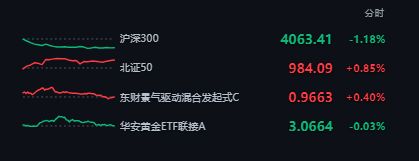
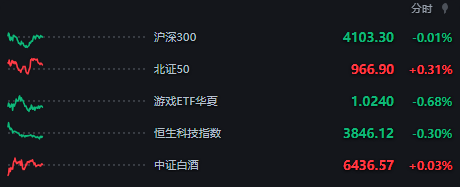
docs: README 与预览图对齐 v1.0.5
- 下载区收成一个安装包，说明便携版从 v1.0.5 起不再提供
- 补「列表滚动」用法与 12 行上限
- 预览图重做：设置面板侧边栏、聚焦图表十字光标、自动配色对比、主浮窗
- config.example.json 补 shortcuts / sparkWidth / focusChartWidth

diff --git a/README.md b/README.md
@@ -2,32 +2,55 @@
 
 背景全透明的桌面行情浮窗。没有边框、没有面板、没有按钮堆叠，只有红绿折线和几个数字，贴在桌面任意角落，不挡视线。
 
-**[⬇ 下载最新版 MiniTicker.exe](https://github.com/qqten/mini-ticker/releases/latest)** — 单文件，不用装 Node，双击就能用。
+**[⬇ 下载最新版](https://github.com/qqten/mini-ticker/releases/latest)** —— 一个安装包，装完就能自动更新，不用再手动下新版。
 
-![深色壁纸上的效果](preview/dark-wallpaper.png)
+![浮窗叠在深色背景上的效果](preview/dark-wallpaper.png)
 
 ## 特性
 
 - **真透明**：无边框浮窗，背景完全透过去，叠在浏览器、编辑器、壁纸上都行
-- **自动配色**：实时采样窗口背后的画面，背景亮就自动转暗色字，背景暗就转亮色字，不用手动切
+- **自动配色**：实时采样窗口背后的画面，背景亮就自动转暗色字，背景暗就自动转亮色字，不用手动切
 - **多市场**：A 股、港股、美股、指数、ETF、场外基金混着盯
+- **场外基金也有分时线**：基金没有分钟行情，就每轮抓一次盘中估值自己攒成曲线，跟股票一样一条线看下来
 - **四种周期**：分时 / 日线 / 月线 / 年线，`Ctrl+1~4` 秒切，右上角常驻当前周期标识
-- **聚焦图表**：`Ctrl+Alt+F` 把浮窗向右加宽，左边照旧是列表、右边长出一块图表区（分时 / 5日 / 日K，K 线 + 均线 + 成交量 + MACD），`↑↓` 或鼠标点行切换自选，中间分界线可拖动
-- **可伸缩**：鼠标移到浮窗任意一边拖动改宽/改高，松手记住；右键菜单只有设置和退出，其余都在设置面板里
+- **聚焦图表**：`Ctrl+Alt+F` 把浮窗向右加宽，左边照旧是列表、右边长出一块图表区（分时 / 5日 / 日K，K 线 + 均线 + 成交量 + MACD + 十字光标读数）
+- **可伸缩**：鼠标移到浮窗任意一边拖动改宽/改高，松手记住；窄到 220px 也还能用，会自己收字号、把折线压成迷你条
 - **按名字搜**：中文名、拼音首字母、代码都能搜，不用背代码
 - **尾盘提醒**：到点弹通知 + 任务栏闪烁
 - **收盘自动退出 / 自动启动**：收盘定时退出；自动启动走 Windows 计划任务，工作日定点拉起，节假日会跳过
+- **自动更新**：安装版启动后静默检查，后台下好，等你正常退出时装上，不打断盯盘
 - **单实例**：重复启动只会激活已有窗口
 
-![自动适配背景](preview/auto-adaptive.png)
+![自动配色：同一个浮窗，深色背景转浅色文字，浅色背景转深色文字](preview/auto-adaptive.png)
 
 ## 快速开始
 
-### 直接用现成的 exe
+### 下载哪个
 
-去 [Releases](https://github.com/qqten/mini-ticker/releases/latest) 下载 `MiniTicker-x.y.z.exe`，双击即可 —— 单文件，不用装 Node，首次启动会先解压到临时目录，慢 1~2 秒。配置和日志写在 `%APPDATA%\mini-ticker\`，卸载就是删掉这个 exe 和那个目录。
+只有一个包，直接下就行：
+
+| 包 | 说明 |
+| --- | --- |
+| `MiniTicker-Setup-x.y.z.exe` | 装到用户目录（不需要管理员权限），带开始菜单快捷方式和自动更新 |
+
+在 [Releases](https://github.com/qqten/mini-ticker/releases/latest) 里。配置和日志写在 `%APPDATA%\mini-ticker\`，装新版会沿用，卸载就是删掉程序目录和这个目录。
+
+> 早先发过便携版（`MiniTicker-x.y.z-portable.exe`），但便携版每次自解压到临时目录，没有固定安装目录，**没法自动更新**，还得手动下新版覆盖，所以从 v1.0.5 起不再提供。
 
 > 没有代码签名，Windows 首次运行会提示「未知发布者」，点「更多信息 → 仍要运行」。
+
+### 自动更新
+
+安装版启动 25 秒后自己查一次新版，发现就静默下载（不弹窗、不抢带宽），下完等你正常退出时替换安装 —— 盯盘过程中不会突然重启窗口。
+
+想手动控制就走**设置 → 关于**：
+
+- 看当前版本和更新状态（未检查 / 正在检查 / 已是最新 / 下载中 xx% / 已下载）
+- 点「检查更新」立刻查一次
+- 下好之后按钮变成「重启更新」，点了立刻重启装上
+- 检查失败会显示原因，可以重试
+
+连不上 GitHub（国内常见）就一直停在「检查失败」，这时去 Releases 手动下新版覆盖安装即可，`%APPDATA%` 里的自选和设置不会丢。
 
 ### 从源码跑
 
@@ -42,48 +65,70 @@ npm start
 
 Windows 用户装好依赖后，直接双击 `start.cmd` 也行。
 
-### 自己打包成 exe
+### 自己打包
 
 ```bash
 npm install
-npm run dist     # 出 dist/MiniTicker-1.0.0.exe（便携单文件）
-npm run pack:dir # 只出 dist/win-unpacked 目录，调试打包问题时用
+npm run dist       # 出安装包：dist/MiniTicker-Setup-x.y.z.exe（+ latest.yml / blockmap，自动更新要用）
+npm run pack:dir   # 只出 dist/win-unpacked 目录，调试打包问题用
 ```
 
-打包用 electron-builder：`electronDist` 指向本地已装好的 Electron，省去重复下载；图标是 `build/icon.ico`。国内网络下载 NSIS 资源慢的话，加镜像：
+打包用 electron-builder，只打 NSIS 安装包（便携版从 v1.0.5 起已去掉）：`electronDist` 指向本地已装好的 Electron，省去重复下载；图标是 `build/icon.ico`。国内网络下载 NSIS 资源慢的话，加镜像：
 
 ```bash
 ELECTRON_BUILDER_BINARIES_MIRROR=https://npmmirror.com/mirrors/electron-builder-binaries/ npm run dist
 ```
 
-> 目前主要在 Windows 上验证。macOS / Linux 可以用 `npm start` 跑起来，但自动启动（Windows 计划任务）那套不适用。
+> 目前主要在 Windows 上验证。macOS / Linux 可以用 `npm start` 跑起来，但自动更新、自动启动（Windows 计划任务）那套不适用。
 
 ## 用法
 
 | 操作 | 效果 |
 | --- | --- |
 | 左键拖动 | 移动浮窗 |
+| 左键单击 | 展开 / 收起聚焦图表 |
 | 拖任意一边 | 改宽 / 改高（拖回内容高度会自动恢复自适应） |
-| 右键 | 菜单：设置 / 退出 |
+| 鼠标滚轮 | 自选多到装不下时，列表上下滚动 |
+| 右键 | 菜单：设置 / 检查更新 / 退出 |
 | `Ctrl+1` ~ `Ctrl+4` | 切分时 / 日线 / 月线 / 年线 |
 | `Ctrl+R` | 立即刷新 |
-| `Ctrl+Alt+F` | 展开 / 收起聚焦图表（窗口向右加宽） |
+| `Ctrl+Alt+F` | 展开 / 收起聚焦图表（全局快捷键，浮窗没焦点时也能按） |
+
+快捷键都能在**设置 → 快捷键**里改。
 
 第一次使用建议右键 → 设置，把标的换成自己关心的。
 
-涨跌幅跟着周期走：分时显示的是「今天涨跌」（相对昨收），切到日/月/年线后显示的是**这条折线覆盖区间的涨跌**（首点到末点），和曲线本身对得上。窗口拉高时每行和折线会一起变高，不会留空白。
+涨跌幅跟着周期走：分时显示的是「今天涨跌」（相对昨收），切到日/月/年线后显示的是**这条折线覆盖区间的涨跌**（首点到末点），和曲线本身对得上。窗口拉高时每行和折线会一起变高，不会留空白；行数多到装不下时，行高回到基准值、列表上下滚动，滚到哪行都能看全，不会被切掉半行。「高度跟随内容」最多撑到 12 行，再多就靠滚动，免得窗口长到半个屏幕高。
+
+## 设置面板
 
 ![设置面板](preview/settings-panel.png)
+
+左侧边栏分六类，改完点「保存并应用」：
+| 分类 | 内容 |
+| --- | --- |
+| 标的 | 搜索添加、勾选是否显示在浮窗、✕ 从候选里移除 |
+| 行情 | 默认周期、刷新间隔（1~60 秒，浮窗和聚焦图表共用） |
+| 外观 | 衬底开关与浓度、显示名称 / 基准线、亮暗采样间隔、折线宽度；窗口始终置顶、锁定位置、宽度 |
+| 快捷键 | 六个快捷键，点一下输入框再按想用的组合键就录上，Esc 恢复默认，撞车会提示 |
+| 交易时段 | 尾盘提醒（带测试按钮）、收盘自动退出、开盘自动启动（写 Windows 计划任务） |
+| 关于 | 当前版本、更新状态、检查更新 / 重启更新 |
 
 ## 聚焦图表
 
 浮窗只放得下折线，要看细节就按 `Ctrl+Alt+F`，或者**直接在浮窗上左键单击**。**不另开窗口**，而是把当前窗口向右加宽：左边仍是原来那份列表（只留名称、点位差、涨跌幅三栏，折线换到右边大图里），右边多出来的是图表区。右边顶到屏幕边缘时会改成向左加宽，位置和高度都不变。背景依然是透明的，只有线条和文字。
+
+![聚焦图表：左侧列表 + 右侧日K，鼠标悬停显示十字光标和当根数值](preview/focus-chart.png)
 
 | 视图 | 内容 |
 | --- | --- |
 | 分时 | 价格线 + 均价线 + 昨收虚线 + 每分钟成交量柱，左侧价格、右侧涨跌幅 |
 | 5日 | 最近 5 个交易日分时首尾相接，每天一条昨收虚线，横轴标日期 |
 | 日K | 蜡烛图 + MA5/MA10/MA20 + 成交量 + MACD(12,26,9) |
+
+**鼠标放到图上出十字光标**：跟着鼠标走一个提示框，显示这一刻的时间、价格、涨跌和成交量；日K 还会给当根的开高低收。移出图表自动消失。
+
+打开、操作、关闭设置面板时，聚焦图表不会被挤扁，宽度保持不变。
 
 窗口内快捷键：
 
@@ -99,9 +144,9 @@ ELECTRON_BUILDER_BINARIES_MIRROR=https://npmmirror.com/mirrors/electron-builder-
 
 **中间那条分界线可以直接拖**：窗口总宽不变，宽度在「列表」和「图表」之间重新分配。左列 220~640、图表至少留 200，鼠标移到线上会变亮。松手后左列宽度写回 `config.json` 的 `width`，收起窗口和下次展开都沿用这个宽度。
 
-展开后拖边框改的是**图表区的宽度**，松手记住（`config.json` 里的 `focusChartWidth`），下次展开还是这么宽。全局快捷键可以在 `config.json` 里用 `focusHotkey` 改（Electron 的 accelerator 写法，比如 `CommandOrControl+Shift+K`）。
+展开后拖边框改的是**图表区的宽度**，松手记住（`config.json` 里的 `focusChartWidth`），下次展开还是这么宽。
 
-**列表变窄时先压缩数值**：宽度小于 300px 时点位和涨跌幅字号降一档、间距收紧；小于 240px 时收起迷你折线，把宽度全给名称。
+**列表变窄时先压缩数值**：宽度小于 300px 时点位和涨跌幅字号降一档、间距收紧；小于 240px 时再降一档，折线压成 22px 起的迷你条但**不隐藏** —— 窄窗口也得能看出涨跌形状。
 
 ## 添加标的
 
@@ -137,8 +182,10 @@ ELECTRON_BUILDER_BINARIES_MIRROR=https://npmmirror.com/mirrors/electron-builder-
 | `alert` | 尾盘提醒开关与时间 |
 | `autoExit` | 收盘自动退出时间，默认 `15:05`（留几分钟让收盘数据落定） |
 | `autoStart` | 自动启动：`enabled` 开启后按 `time`（默认 09:25）写 Windows 计划任务，工作日定点拉起 |
-| `width` | 浮窗宽度，拖动边缘会自动写回 |
-| `height` | 浮窗高度，`0` = 跟随内容自动撑开；手动拖过高就记住具体值 |
+| `shortcuts` | 六个快捷键，Electron accelerator 写法，比如 `CommandOrControl+Shift+K` |
+| `width` / `height` | 浮窗尺寸，拖动边缘自动写回；`height` 为 `0` 表示跟随内容撑开 |
+| `sparkWidth` | 列表里迷你折线的期望宽度，实际还会被窗口宽度约束 |
+| `focusChartWidth` | 聚焦图表展开时的图表区宽度 |
 
 ## 数据来源
 
@@ -146,11 +193,11 @@ ELECTRON_BUILDER_BINARIES_MIRROR=https://npmmirror.com/mirrors/electron-builder-
 
 - 腾讯财经：实时快照、分时、日/月 K 线（主源）
 - 新浪财经：实时快照、分时、日/月 K 线（腾讯被 WAF 拦下时自动接管；港股美股只走它取快照）
-- 天天基金：基金历史净值
+- 天天基金：基金历史净值 + 盘中估值
 
 腾讯的行情接口有两个等价入口（`ifzq.gtimg.cn` 与 `proxy.finance.qq.com`），主域名返回 WAF 挑战页时会自动换到备用域名；两个都挂了才落到新浪。切换会写一条日志到 `logs/app.log`。
 
-新浪的 K 线接口只支持沪市 / 深市 / 北交所，港股美股的分时与 K 线仍然依赖腾讯。
+新浪的 K 线接口只支持沪市 / 深市 / 北交所，港股美股的分时与 K 线仍然依赖腾讯。外盘分时也带每分钟成交量，成交量柱不会是空的。
 
 调试时可以强制走新浪，验证兜底链路是否还活着：
 
@@ -164,6 +211,7 @@ set TICKER_FORCE_SINA=1 && start.cmd
 
 - 仅供个人盯盘使用，不构成任何投资建议
 - 窗口只在本地读取屏幕亮度用于配色，不截图保存、不上传
+- 自动更新只连 GitHub 的 release 地址，不收集任何使用数据
 - 部分接口有频率限制，刷新间隔不建议低于 1 秒
 
 ## License
